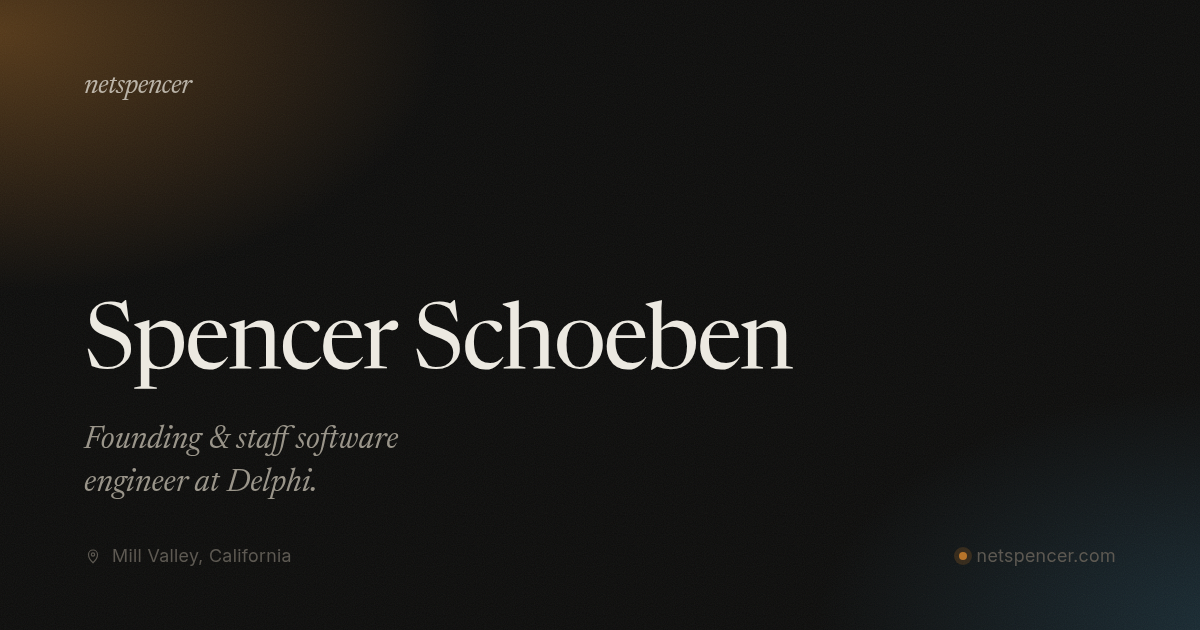
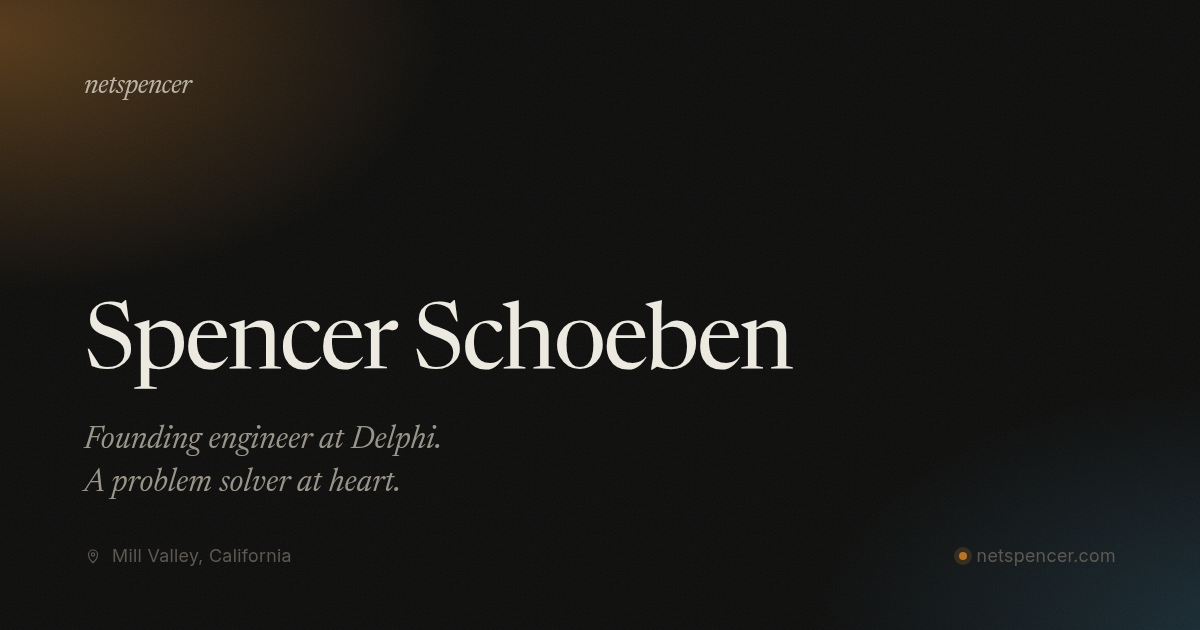
Rewrite the bio in a plainer, more personal voice
Drop "founding & staff software engineer" for "founding engineer" everywhere, including the Work list, meta tags, and the OG card. The subtitle no longer repeats "engineer", and the About copy is rewritten to read more like conversation.

Changed region(s): [[0.0617, 0.6635, 0.37, 0.7841]]

diff --git a/index.html b/index.html
@@ -6,7 +6,7 @@
     <title>Spencer Schoeben</title>
     <meta
       name="description"
-      content="Spencer Schoeben is a founding and staff software engineer at Delphi. An engineer first, a problem solver by nature, and a dad. Previously Capital, Untapped, Magma, and Integral."
+      content="Spencer Schoeben is the founding engineer at Delphi. A problem solver at heart, and a dad. Previously Capital, Untapped, Magma, and Integral."
     />
     <link rel="canonical" href="https://netspencer.com/" />
     <meta property="og:type" content="website" />
@@ -16,13 +16,13 @@
     <meta property="og:site_name" content="Spencer Schoeben" />
     <meta
       property="og:description"
-      content="Founding and staff software engineer at Delphi. An engineer first, a problem solver by nature."
+      content="Founding engineer at Delphi. A problem solver at heart."
     />
     <meta property="og:image" content="https://netspencer.com/og.png" />
     <meta property="og:image:type" content="image/png" />
     <meta property="og:image:width" content="1200" />
     <meta property="og:image:height" content="630" />
-    <meta property="og:image:alt" content="Spencer Schoeben, founding and staff software engineer at Delphi. Mill Valley, California." />
+    <meta property="og:image:alt" content="Spencer Schoeben, founding engineer at Delphi. Mill Valley, California." />
     <meta name="twitter:card" content="summary_large_image" />
     <meta name="twitter:site" content="@netspencer" />
     <meta name="twitter:creator" content="@netspencer" />
@@ -79,9 +79,9 @@
             class="rise mt-6 font-serif text-[1.45rem] leading-[1.45] text-mute italic sm:text-[1.6rem]"
             style="--d: 220ms"
           >
-            Founding &amp; staff software engineer at
+            Founding engineer at
             <a class="link not-italic" href="https://delphi.ai" target="_blank" rel="noopener noreferrer">Delphi</a>.
-            An engineer first. A problem solver by nature.
+            A problem solver at heart.
           </p>
 
           <details class="place rise mt-7" style="--d: 280ms">
@@ -112,31 +112,31 @@
           <h2 class="eyebrow">About</h2>
           <div class="mt-6 space-y-6 font-serif text-[1.22rem] leading-[1.7] text-ink/85 sm:text-[1.3rem]">
             <p>
-              I&rsquo;m an engineer. I&rsquo;ve been teaching myself to code since middle school,
-              and I&rsquo;ve spent the years since building software&mdash;the kind that has to
-              hold up in production, and the kind that has to feel right the moment someone touches it.
+              I&rsquo;ve been teaching myself to code since middle school. It started because I
+              wanted to make things, and it never really stopped. Somewhere along the way it
+              turned into a career, but the part I love is still the same: someone has a problem,
+              and I get to figure out how to make it go away.
             </p>
             <p>
-              At <a class="link" href="https://delphi.ai" target="_blank" rel="noopener noreferrer">Delphi</a>,
-              I help the brightest minds scale their time by turning what they know into digital
-              minds people can actually talk to. Mine is in the corner of this page. Ask it anything.
+              These days that happens at
+              <a class="link" href="https://delphi.ai" target="_blank" rel="noopener noreferrer">Delphi</a>,
+              where I&rsquo;m the founding engineer. We turn what people know into digital minds
+              you can actually talk to, so the brightest people can be in more than one place at
+              once. Mine is in the corner of this page. Go ahead, ask it something.
             </p>
             <p>
-              What I really am is a problem solver. Engineering is how I do it, and design and
-              product fall underneath that: they are part of understanding the problem well enough
-              to build the right thing. Software should feel like a natural extension of a person,
-              not a puzzle to solve. Good systems create sanity instead of chaos, so I think a lot
-              about psychology, attention, and what it means for a tool to feel calm.
+              I&rsquo;m an engineer first, but I&rsquo;ve never been good at staying in my lane. I
+              care how something feels as much as how it works, because to me those are the same
+              problem. The best software gets out of your way. It feels calm. It gives you a little
+              sanity instead of more chaos. That&rsquo;s the bar I try to hit.
             </p>
             <p>
-              Away from the keyboard, I&rsquo;m a dad. It is the best job I&rsquo;ve ever had and
-              the one I take most seriously. Home is Mill Valley, tucked under Mount Tamalpais
-              just north of the Golden Gate. The rest of my time goes to exploring wherever I
-              happen to be, learning things I have no business learning, and making
-              people&rsquo;s lives a little simpler and more enjoyable through the things I build
-              and the stories I tell.
+              Away from the keyboard I&rsquo;m a dad, which is the best job I&rsquo;ve ever had and
+              the one I take most seriously. Home is Mill Valley, tucked under Mount Tam just north
+              of the Golden Gate. I like exploring wherever I happen to be, learning things I have no
+              business learning, and telling a good story when I&rsquo;ve got one.
             </p>
-            <p class="text-mute">Trying to make the world a better place in my own, small way.</p>
+            <p class="text-mute">Trying to make the world a little better, in my own small way.</p>
           </div>
         </section>
 
@@ -145,7 +145,7 @@
           <ol class="mt-6 border-b border-line">
             <li class="row">
               <a class="link text-[1.05rem]" href="https://delphi.ai" target="_blank" rel="noopener noreferrer">Delphi</a>
-              <span class="role text-right text-[0.95rem]">Founding &amp; staff engineer</span>
+              <span class="role text-right text-[0.95rem]">Founding engineer</span>
             </li>
             <li class="row">
               <a class="link text-[1.05rem]" href="https://capital.xyz" target="_blank" rel="noopener noreferrer">Capital</a>

diff --git a/scripts/og.html b/scripts/og.html
@@ -70,7 +70,6 @@
         font-size: 32px;
         line-height: 1.35;
         color: #9a958a;
-        max-width: 18ch;
       }
       .foot {
         margin-top: 40px;
@@ -105,7 +104,7 @@
     <div class="frame">
       <div class="brand">netspencer</div>
       <h1 class="name">Spencer Schoeben</h1>
-      <p class="lede">Founding &amp; staff software engineer at Delphi.</p>
+      <p class="lede">Founding engineer at Delphi.<br />A problem solver at heart.</p>
       <div class="foot">
         <div class="pin">
           <svg viewBox="0 0 24 24" fill="none" stroke="currentColor" stroke-width="1.6" stroke-linecap="round" stroke-linejoin="round">
